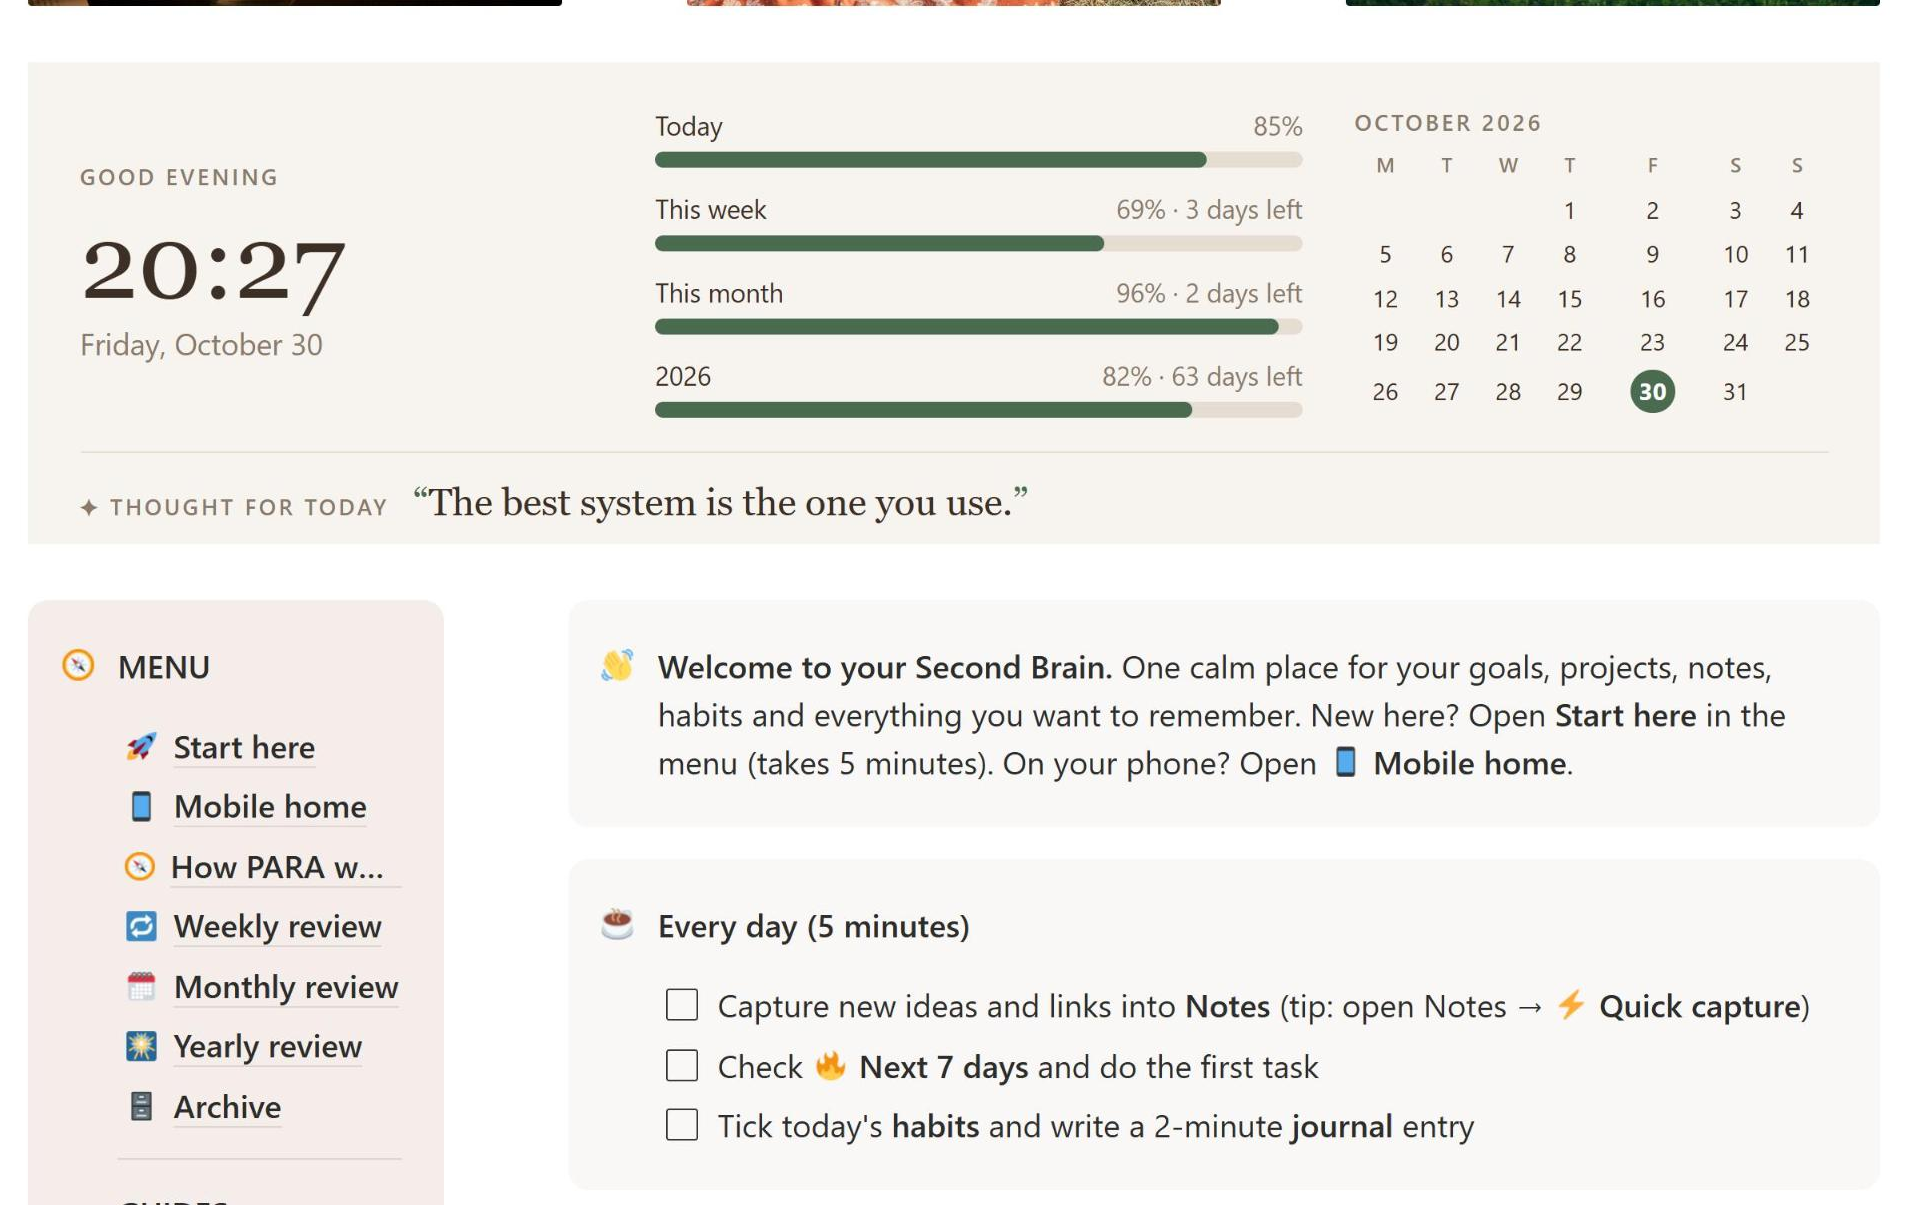
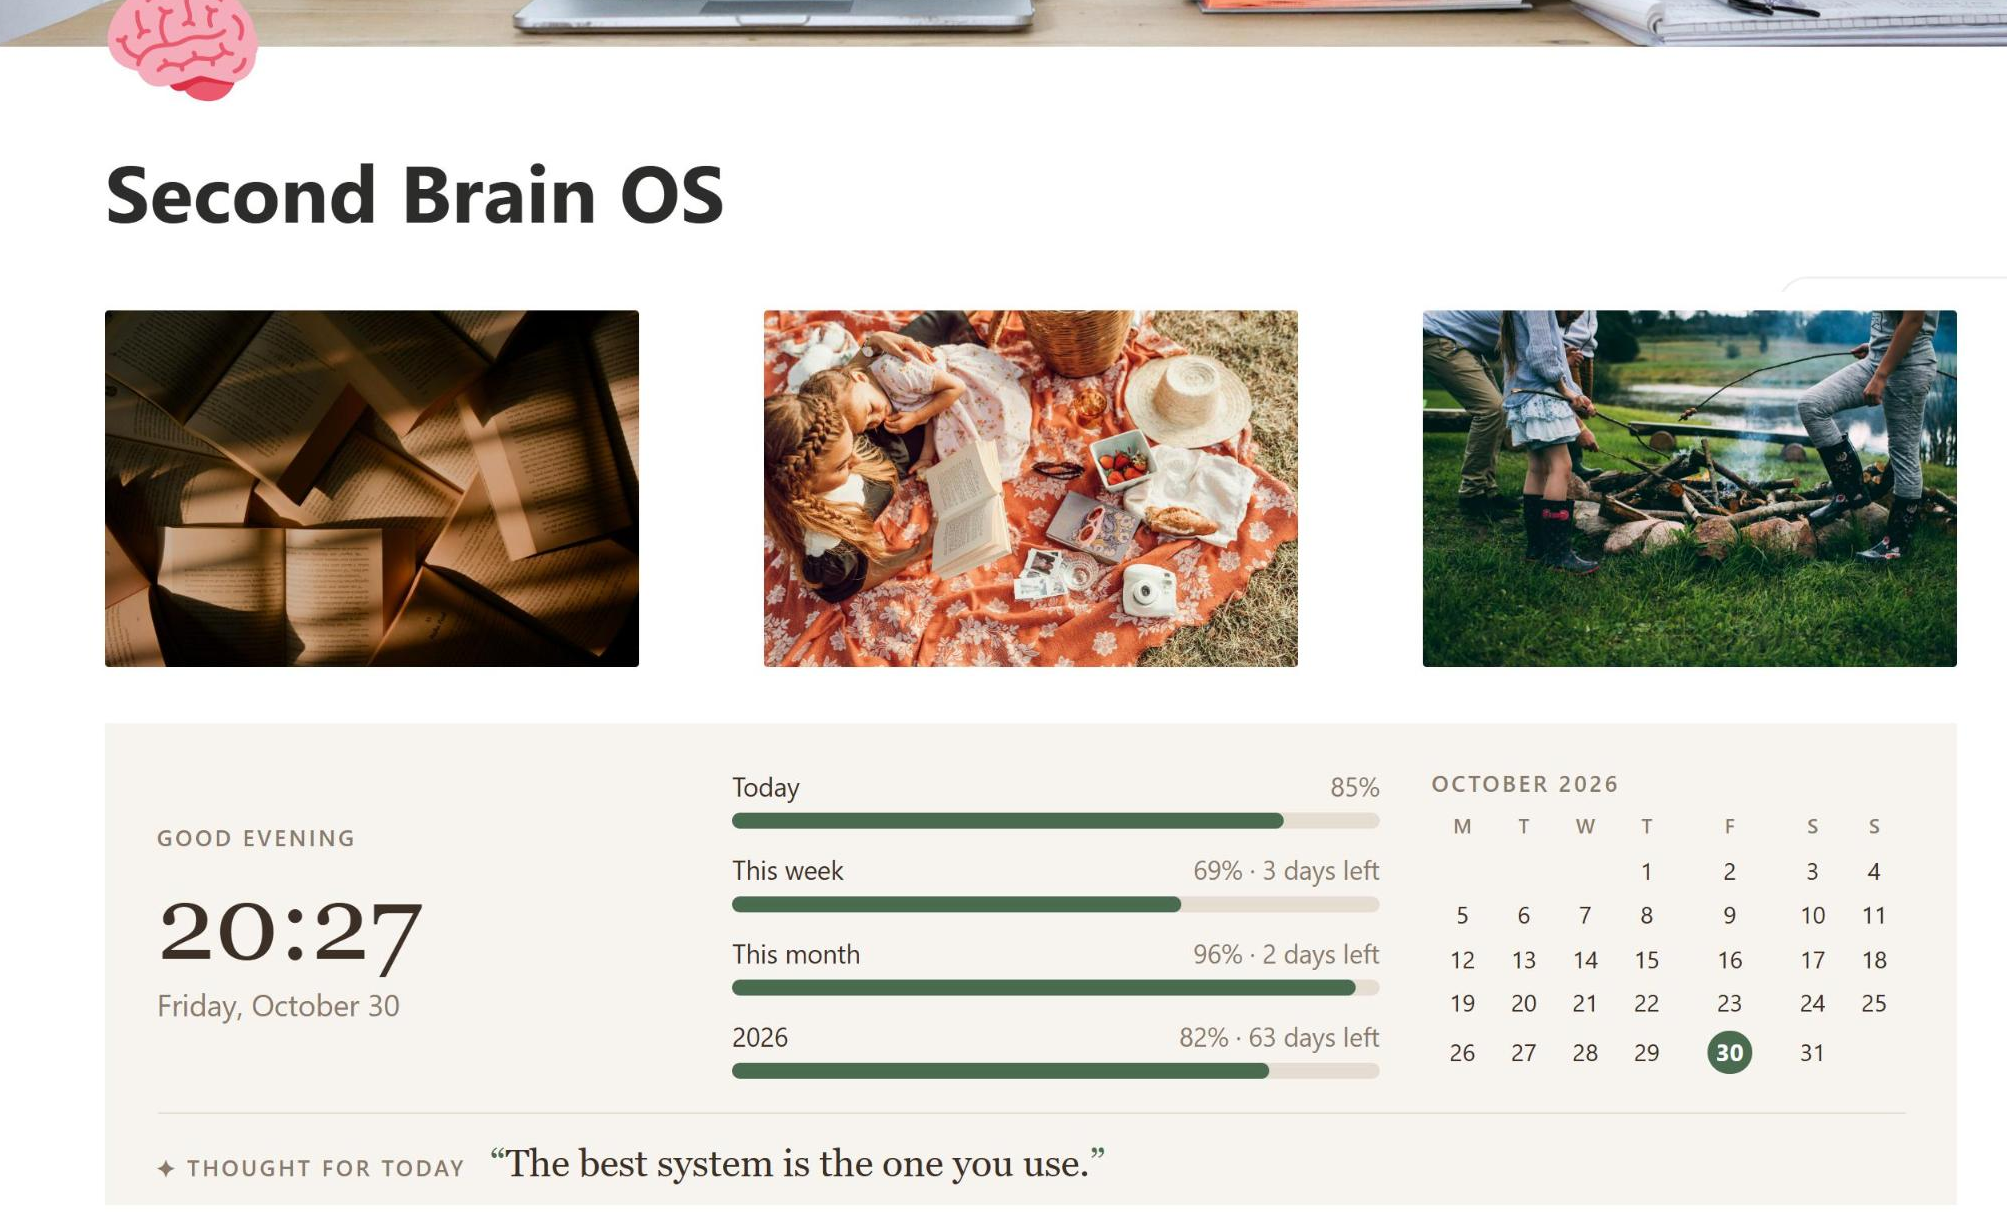
SB listing v3: 10 Etsy images (lifestyle + phone + inside/how/bonus); menu callout green
Claude-Session: https://claude.ai/code/session_01SESvdWYowsCKTnCuHXDcbL

diff --git a/generator/v3/sb_listing_v3.py b/generator/v3/sb_listing_v3.py
@@ -10,7 +10,9 @@ B.CROPS.update({
     'c-sb-widget': ('sb-home', (166, 968, 1382, 1456)),
     'c-sb-goals': ('sb-goals', (180, 330, 1330, 850)),
     'c-sb-journal': ('sb-journal', (180, 330, 820, 1000)),
-    'sb-scr-widget': ('sb-home', (166, 940, 1945, 2050)),
+    'sb-scr-widget': ('sb-home', (95, 330, 1945, 1460)),
+    'sb-scr-goals': ('sb-goals', (150, 60, 1945, 1220)),
+    'sb-scr-projects': ('sb-projects', (150, 330, 1990, 1220)),
 })
 B.COMPOSITE.update({
     'c-sb-projects': ('sb-projects', [(396, 940)], [(192, 700), (1253, 1751)]),
@@ -72,7 +74,54 @@ def life_bg(scene, screen, out, text_side='right', dark=False):
 LIFE = [  # (n, title, desc, scene, screen crop, card crop, text side, dark)
     (1, 'Start every day clear', 'A live Today widget: the clock, how much of the week, month and year is left, and a thought for the day.',
      's-sb2.png', 'sb-scr-widget', 'c-sb-widget', 'right', False),
+    (2, 'Goals with real progress', 'Link projects to a goal. Its bar fills up as the projects are done.',
+     's-sb-m.png', 'sb-scr-goals', 'c-sb-goals', 'right', False),
+    (3, 'Every project on one board', 'A progress bar from ticked tasks, plus days left or late. Drag a card when a project moves.',
+     's-sb2-m.png', 'sb-scr-projects', 'c-sb-projects', 'left', False),
 ]
+
+PH = os.path.join(B.HD)
+PHONES = [  # (n, title, desc, [phone screenshots])
+    (4, 'Small habits, every day', 'One row per day. Tick what you did, and see your score from 1 to 5. Rename the 5 habits to fit your life.', ['sbph-habits']),
+    (5, 'A 2-minute daily journal', 'Mood, one win and one thank you before bed. Capture ideas on the go and sort them later.', ['sbph-journal', 'sbph-capture']),
+    (6, 'Your Second Brain on your phone', 'A light Mobile home page: today, your next 7 days, habits and journal, one tap away.', ['sbph-mhome', 'sbph-tasks']),
+]
+
+
+def phone(src, left, top, w, rot=0, z=1):
+    h = int(w * 1975 / 1080)
+    return (f'<div style="position:absolute;left:{left}px;top:{top}px;width:{w + 24}px;height:{h + 24}px;border-radius:52px;background:#1F1D1B;'
+            f'box-shadow:0 30px 70px rgba(46,42,37,.30);transform:rotate({rot}deg);z-index:{z}">'
+            f'<img src="{src}" style="position:absolute;left:12px;top:12px;width:{w}px;height:{h}px;border-radius:40px"></div>')
+
+
+def phone_page(n, title, desc, shots, base_url):
+    p = L.P['sb']; lab = f'sb-{n + 1}-feature'
+    srcs = ['file://' + os.path.join(B.HD, s_ + '.png') for s_ in shots]
+    inner = (L.blobs(p['accent'])
+             + f'<p style="position:absolute;left:90px;top:170px;width:64px;margin:0;padding:12px 0;text-align:center;border-radius:999px;background:{p["accent"]};color:{L.PAP};font-size:30px;font-weight:700">{n}</p>'
+             + L.T(90, 265, 520, title, 60, f'line-height:1.05;color:{L.INK};{L.SER}')
+             + L.T(90, 470 if len(title) > 22 else 420, 470, desc, 27, f'line-height:1.45;color:{L.MUT}')
+             + L.T(90, 900, 0, 'Second Brain OS', 21, f'font-weight:700;letter-spacing:1px;color:{p["accent"]}'))
+    if len(srcs) == 1:
+        inner += phone(srcs[0], 790, 70, 400, 0)
+    else:
+        inner += phone(srcs[1], 960, 150, 330, 5, 1) + phone(srcs[0], 690, 60, 400, -3, 2)
+    return L.page(lab, inner, None, p['color'])
+
+
+def bonus_page(base_url):
+    p = L.P['sb']; g = ['file://' + os.path.join(L.ROOT, 'canva', 'v3', 'crops', f'sbguide-{i}.png') for i in (1, 2, 3)]
+    sh = 'box-shadow:0 28px 60px rgba(46,42,37,.28);border-radius:10px'
+    inner = (L.blobs(p['accent'])
+             + L.T(90, 170, 0, 'BONUS', 22, f'padding:10px 22px;border-radius:999px;background:{L.CLAY if hasattr(L, "CLAY") else "#C98B6B"};color:{L.PAP};font-weight:700;letter-spacing:3px')
+             + L.T(90, 260, 520, 'Notion for beginners guide', 60, f'line-height:1.05;color:{L.INK};{L.SER}')
+             + L.T(90, 470, 450, 'A 7-page PDF: set up, the 6 things to know, databases made simple, your routine, shortcuts and fixes. Learn Notion in 15 minutes.', 27, f'line-height:1.45;color:{L.MUT}')
+             + L.T(90, 900, 0, 'Second Brain OS', 21, f'font-weight:700;letter-spacing:1px;color:{p["accent"]}')
+             + f'<img src="{g[2]}" style="position:absolute;left:990px;top:190px;width:330px;transform:rotate(7deg);{sh}">'
+             + f'<img src="{g[1]}" style="position:absolute;left:860px;top:140px;width:340px;transform:rotate(2deg);{sh}">'
+             + f'<img src="{g[0]}" style="position:absolute;left:640px;top:110px;width:400px;transform:rotate(-5deg);{sh}">')
+    return L.page('sb-10-bonus', inner, None, p['color'])
 
 
 def life_page(n, title, desc, scene, screen, card, side, dark, base_url):
@@ -97,8 +146,9 @@ if __name__ == '__main__':
     os.makedirs(os.path.join(L.OUT, 'sb'), exist_ok=True); os.makedirs(os.path.join(L.OUT, 'final', 'sb'), exist_ok=True)
     base = 'file://' + os.path.join(L.ROOT, 'canva', 'v3') + '/LOCALMARK/'
     pages = L.build('sb', base)
-    life = [life_page(*row, base) for row in LIFE]
-    pages = [pages[0]] + life + pages[len(life) + 1:]
+    life = [life_page(*row, base) for row in LIFE] + [phone_page(*row, base) for row in PHONES]
+    inside = pages[5].replace('sb-6-inside', 'sb-8-inside'); how = pages[6].replace('sb-7-how', 'sb-9-how')
+    pages = [pages[0]] + life + [inside, how, bonus_page(base)]
     for pg in pages:
         pg2 = pg.replace('/LOCALMARK/crops/', '/crops/').replace('/LOCALMARK/', '/etsy/')
         lab = re.search(r'data-label="([^"]+)"', pg2).group(1)
